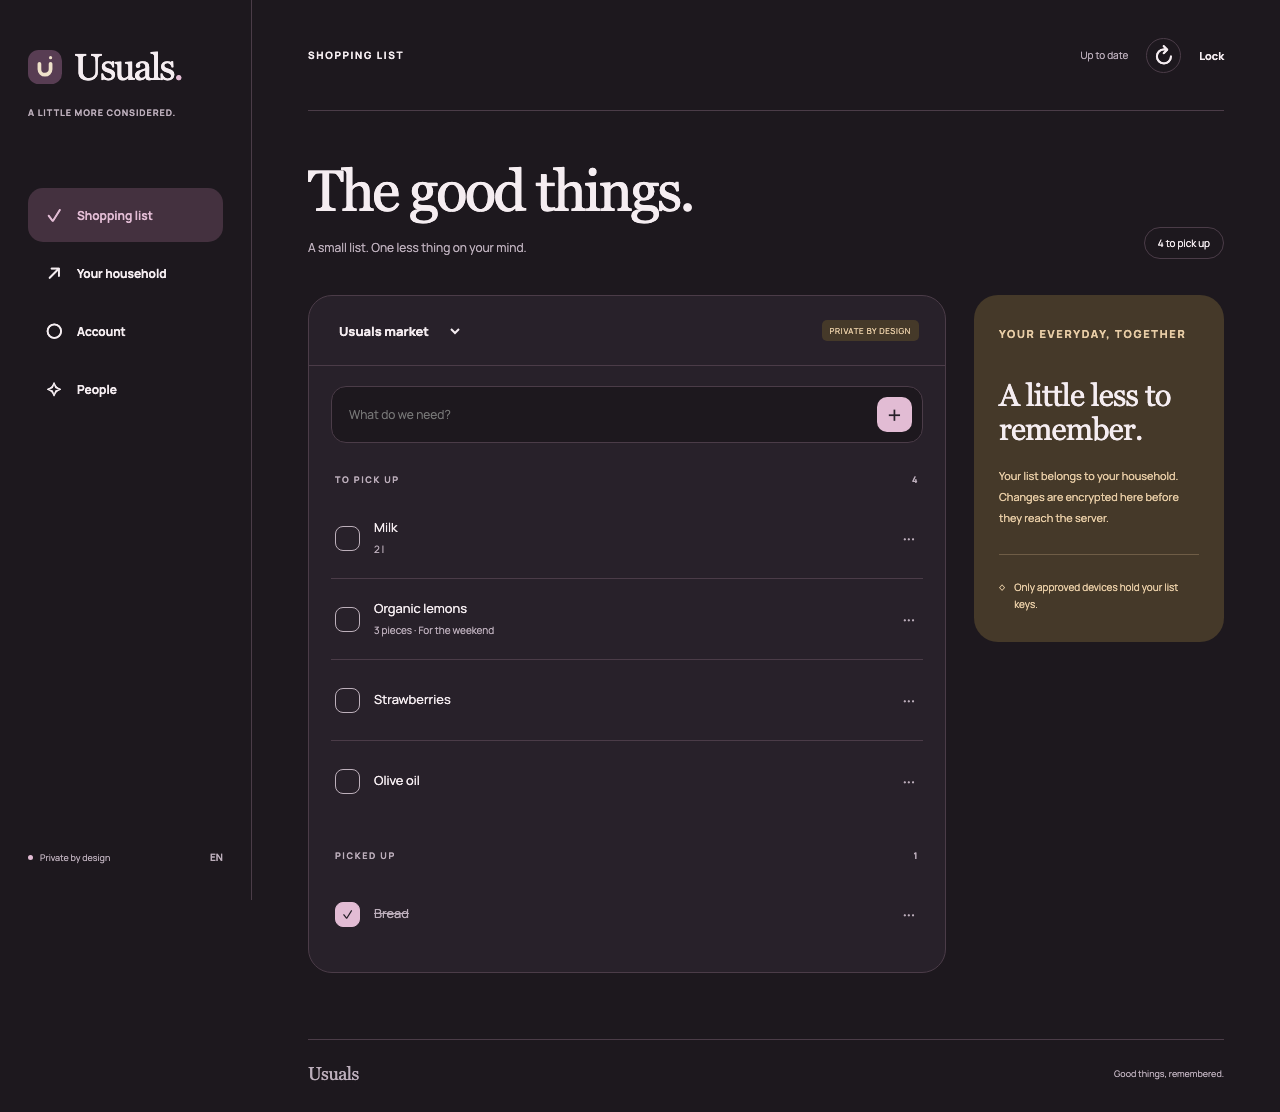
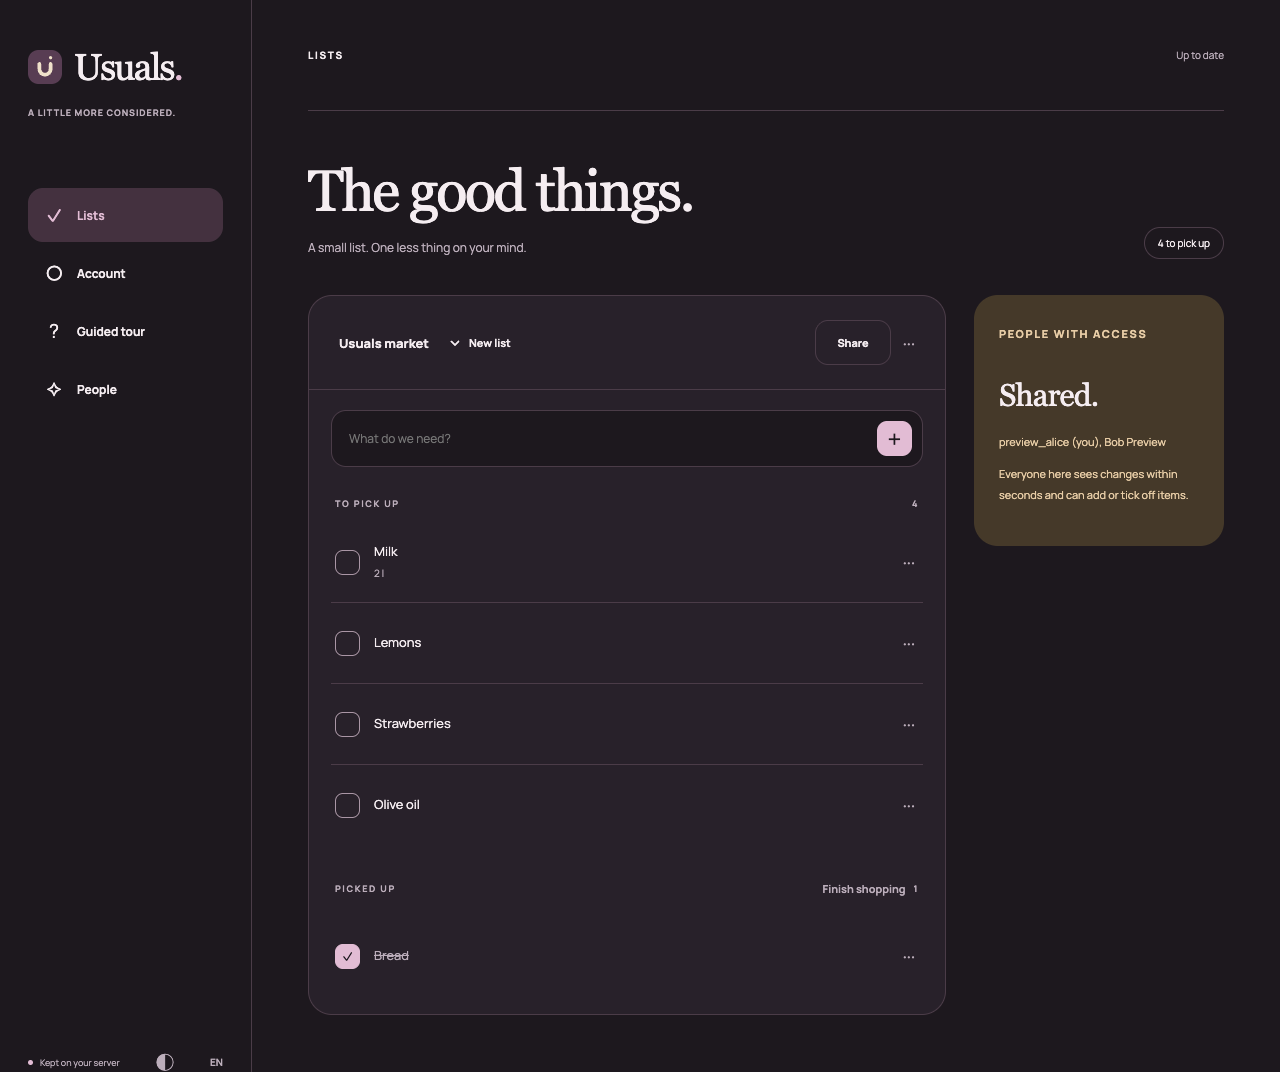
:camera_flash: docs: show a shared list in the web app screenshot

diff --git a/docs/assets/README.md b/docs/assets/README.md
@@ -20,9 +20,8 @@ The PNGs are unmodified screenshots from the local verification runs:
   earlier explicit lookup, displayed from the local demo fixture. Refreshing
   this screenshot requires no network request. The screen includes its source,
   saved date, ODbL credit and packaging reminder.
-- `web-editor.png`: the local browser test list with sample groceries. It was
-  taken before server-held lists and still shows the old household navigation
-  and encryption note.
+- `web-editor.png`: the local browser preview's synthetic account with a sample
+  list shared with the preview's second account.
 
 No customer account, invitation, server address or credential appears in these
 screenshots. Keep documentation screenshots free of private household data.

diff --git a/README.md b/README.md
@@ -116,7 +116,7 @@ are no invitations or codes to send. See the
 [server connection guide](docs/server-connection.md) for the details.
 
 <p align="center">
-  <a href="docs/assets/web-editor.png"><img src="docs/assets/web-editor.png" alt="Usuals web editor in dark mode: a shopping list with quantities, checked items and account navigation" width="100%"></a>
+  <a href="docs/assets/web-editor.png"><img src="docs/assets/web-editor.png" alt="Usuals web app in dark mode: a list shared with another account, with quantities and a picked-up item" width="100%"></a>
 </p>
 
 <p align="center"><em>Android in your pocket. A larger workspace in your browser.</em></p>
